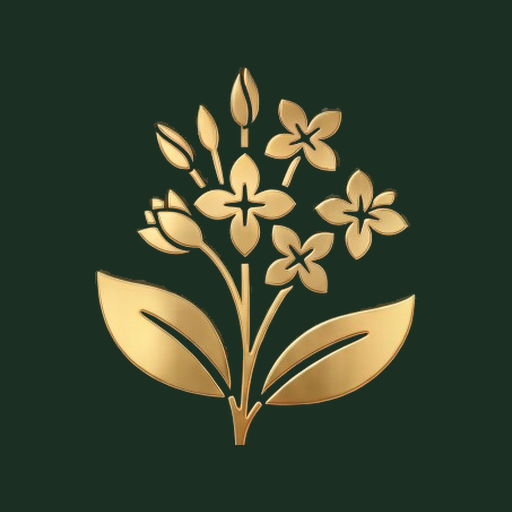
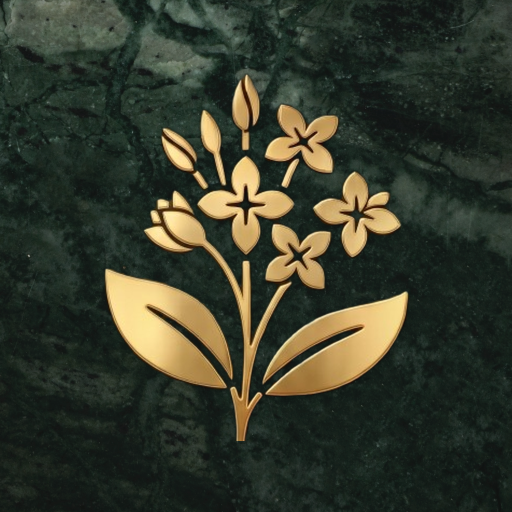
feat(branding): wire refined assets across site
Centralize brand images in images.ts, use marble background in contact,
brand logo for social metadata, and regenerate app icons from avatar.

diff --git a/src/lib/images.ts b/src/lib/images.ts
@@ -1,5 +1,43 @@
 /** Local image assets — avoids broken remote Unsplash URLs. */
 export const images = {
+  brand: {
+    logo: {
+      src: "/images/mavife-logo.png",
+      alt: "Mavife — Atelier Verde",
+      width: 1024,
+      height: 1024,
+    },
+    background: {
+      src: "/images/mavife-background.png",
+      alt: "Textura mármore verde Mavife",
+      width: 1024,
+      height: 1024,
+    },
+    avatar: {
+      src: "/images/mavife-avatar.png",
+      alt: "Ícone botânico dourado Mavife sobre mármore verde",
+      width: 1024,
+      height: 1024,
+    },
+    plant: {
+      src: "/images/mavife-plant.png",
+      alt: "Ícone botânico Mavife",
+      width: 512,
+      height: 512,
+    },
+    name: {
+      src: "/images/mavife-name.png",
+      alt: "Mavife",
+      width: 632,
+      height: 206,
+    },
+    tagline: {
+      src: "/images/mavife-tagline.png",
+      alt: "Atelier Verde",
+      width: 388,
+      height: 54,
+    },
+  },
   heroMonstera: {
     src: "/images/hero-monstera.jpg",
     alt: "Costela-de-adão em prateleira com decoração de interiores",
@@ -18,35 +56,29 @@ export const images = {
     width: 1200,
     height: 900,
   },
-  arrangementTropical: {
-    src: "/images/arrangement-tropical.jpg",
-    alt: "Buquê tropical com flores coloridas",
-    width: 800,
-    height: 1000,
-  },
-  arrangementWhite: {
-    src: "/images/arrangement-white.jpg",
-    alt: "Arranjo branco elegante com flores",
-    width: 800,
-    height: 1000,
-  },
-  arrangementSucculent: {
-    src: "/images/arrangement-succulent.jpg",
-    alt: "Composição de suculentas em decoração",
-    width: 800,
-    height: 1000,
-  },
   arrangementCenterpiece: {
     src: "/images/arrangement-centerpiece.jpg",
-    alt: "Planta em vaso artesanal — centro de decoração",
+    alt: "Centro de mesa com folhagens em vaso cerâmico sobre bandeja de madeira",
+    width: 800,
+    height: 1000,
+  },
+  arrangementHydroponic: {
+    src: "/images/arrangement-hydroponic.jpg",
+    alt: "Planta com raízes visíveis em vaso de vidro com água",
+    width: 800,
+    height: 1000,
+  },
+  arrangementPots: {
+    src: "/images/arrangement-pots.jpg",
+    alt: "Prateleira com vasos e plantas de diferentes tamanhos",
     width: 800,
     height: 1000,
   },
   aboutFlorist: {
-    src: "/images/about-florist.jpg",
-    alt: "Mãos artesãs cuidando de plantas e flores",
-    width: 800,
-    height: 600,
+    src: "/images/mavife-avatar.png",
+    alt: "Ícone botânico dourado Mavife sobre mármore verde",
+    width: 1024,
+    height: 1024,
   },
   interiorPlants: {
     src: "/images/interior-plants.jpg",

diff --git a/src/components/ContactSection.tsx b/src/components/ContactSection.tsx
@@ -1,32 +1,42 @@
 import Link from "next/link";
 import { Section } from "@/components/Section";
 import { site, siteContent } from "@/lib/content";
+import { images } from "@/lib/images";
 
 export function ContactSection() {
   const { contact } = siteContent;
 
   return (
     <Section id={contact.id} className="bg-surface">
-      <div className="woven-border mx-auto max-w-2xl bg-white p-10 text-center md:p-14">
-        <p className="mb-2 text-sm font-semibold tracking-[0.2em] text-accent uppercase">
-          {site.tagline}
-        </p>
-        <h2 className="text-h2 mb-4 text-ink">{contact.title}</h2>
-        <p className="mb-8 text-body text-muted">{contact.description}</p>
-        <Link
-          href={contact.whatsapp.href}
-          target="_blank"
-          rel="noopener noreferrer"
-          className="btn-primary"
-        >
-          {contact.whatsapp.label}
-        </Link>
-        <dl className="mt-10 grid gap-4 text-body text-muted">
-          <div>
-            <dt className="font-semibold text-ink">Local</dt>
-            <dd>{contact.address}</dd>
-          </div>
-        </dl>
+      <div
+        className="woven-border mx-auto max-w-2xl bg-white/95 p-10 text-center md:p-14"
+        style={{
+          backgroundImage: `url(${images.brand.background.src})`,
+          backgroundSize: "cover",
+          backgroundPosition: "center",
+        }}
+      >
+        <div className="rounded-sm bg-white/90 p-8 backdrop-blur-sm md:p-10">
+          <p className="mb-2 text-sm font-semibold tracking-[0.2em] text-accent uppercase">
+            {site.tagline}
+          </p>
+          <h2 className="text-h2 mb-4 text-ink">{contact.title}</h2>
+          <p className="mb-8 text-body text-muted">{contact.description}</p>
+          <Link
+            href={contact.whatsapp.href}
+            target="_blank"
+            rel="noopener noreferrer"
+            className="btn-primary"
+          >
+            {contact.whatsapp.label}
+          </Link>
+          <dl className="mt-10 grid gap-4 text-body text-muted">
+            <div>
+              <dt className="font-semibold text-ink">Local</dt>
+              <dd>{contact.address}</dd>
+            </div>
+          </dl>
+        </div>
       </div>
     </Section>
   );

diff --git a/src/components/Logo.tsx b/src/components/Logo.tsx
@@ -1,6 +1,7 @@
 import Image from "next/image";
 import Link from "next/link";
 import { site } from "@/lib/content";
+import { images } from "@/lib/images";
 import { cn } from "@/lib/cn";
 
 type LogoProps = {
@@ -8,6 +9,8 @@ type LogoProps = {
 };
 
 export function Logo({ className }: LogoProps) {
+  const { plant, name, tagline } = images.brand;
+
   return (
     <Link
       href="/"
@@ -15,27 +18,27 @@ export function Logo({ className }: LogoProps) {
       aria-label={site.logoLabel}
     >
       <Image
-        src="/images/mavife-plant.png"
+        src={plant.src}
         alt=""
-        width={44}
-        height={44}
+        width={plant.width}
+        height={plant.height}
         priority
         className="h-10 w-auto transition-transform duration-200 group-hover:scale-105"
       />
       <span className="flex flex-col leading-none">
         <Image
-          src="/images/mavife-name.png"
+          src={name.src}
           alt=""
-          width={632}
-          height={206}
+          width={name.width}
+          height={name.height}
           priority
           className="h-6 w-auto"
         />
         <Image
-          src="/images/mavife-tagline.png"
+          src={tagline.src}
           alt=""
-          width={388}
-          height={54}
+          width={tagline.width}
+          height={tagline.height}
           className="mt-0.5 h-2.5 w-auto"
         />
       </span>

diff --git a/src/lib/metadata.ts b/src/lib/metadata.ts
@@ -1,5 +1,6 @@
 import type { Metadata } from "next";
-import { site, siteContent } from "@/lib/content";
+import { site } from "@/lib/content";
+import { images } from "@/lib/images";
 import { getSiteUrl } from "@/lib/site-url";
 
 const siteUrl = getSiteUrl();
@@ -10,10 +11,10 @@ const sharedOpenGraph = {
   siteName: site.name,
   images: [
     {
-      url: siteContent.hero.image.src,
-      width: siteContent.hero.image.width,
-      height: siteContent.hero.image.height,
-      alt: siteContent.hero.image.alt,
+      url: images.brand.logo.src,
+      width: images.brand.logo.width,
+      height: images.brand.logo.height,
+      alt: images.brand.logo.alt,
     },
   ],
 };
@@ -38,7 +39,7 @@ export const rootMetadata: Metadata = {
     card: "summary_large_image",
     title: site.title,
     description: site.description,
-    images: [siteContent.hero.image.src],
+    images: [images.brand.logo.src],
   },
 };
 
@@ -69,7 +70,7 @@ export function createPageMetadata({
       card: "summary_large_image",
       title,
       description,
-      images: [siteContent.hero.image.src],
+      images: [images.brand.logo.src],
     },
   };
 }

diff --git a/src/lib/content.ts b/src/lib/content.ts
@@ -64,19 +64,19 @@ export const siteContent = {
         title: "Centros de mesa",
         description:
           "Decorados com plantas de alto valor decorativo e baixa manutenção. Artesanal e vivo.",
-        image: images.arrangementWhite,
+        image: images.arrangementCenterpiece,
       },
       {
         title: "Hidroponia",
         description:
           "Plantas em água, fácil de manter, ideal para ambientes internos ou externos. Delicado e duradouro.",
-        image: images.arrangementCenterpiece,
+        image: images.arrangementHydroponic,
       },
       {
         title: "Vasos e vasinhos",
         description:
           "Variedade de formas e tamanhos, desde a mesa de cabeceira até a varanda. Natural e essencial.",
-        image: images.arrangementSucculent,
+        image: images.arrangementPots,
       },
     ] satisfies readonly ArrangementItem[],
   },